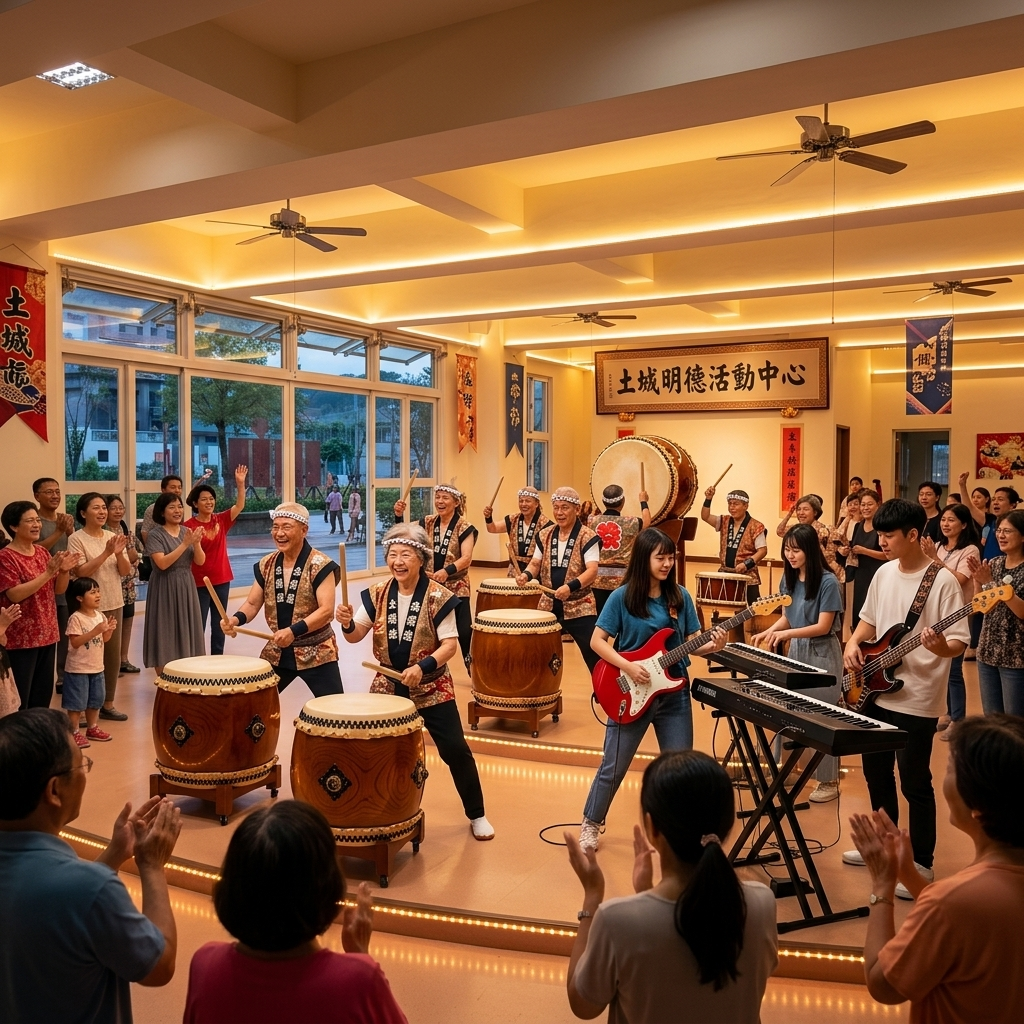
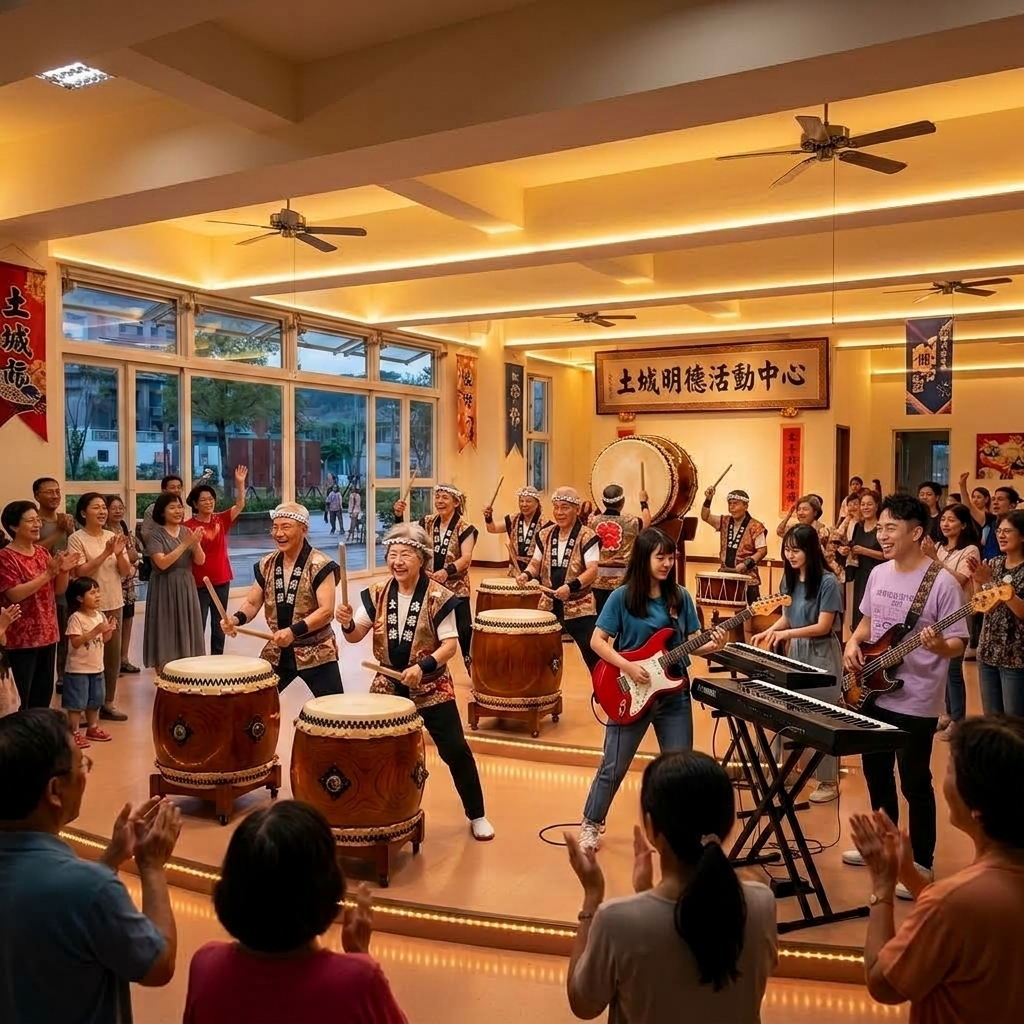
Auto backup by AI: [v25.04] Update policy 06, 07, 09 images, badge bottom-left alignment, and cache bust to v25.04

diff --git a/js/main.js b/js/main.js
@@ -158,7 +158,7 @@ const POLICIES_DATA = [
         categoryName: "專業治理與長照支持",
         title: "預防失智 App ＋ AI樂齡趣味營",
         subtitle: "自研 1 至 50 健腦遊戲每天動態預警，結合 AI 短劇與老照片修復，全方位延緩大腦退化！",
-        image: "images/policy_08_brain.png",
+        image: "images/policy_08_brain.png?v=22.03",
         budgetSource: "失智友善社區專案 ＋ 長者健康促進補助",
         budgetSub: "<span class=\"hl-keyword\">完全不會用到</span>明德里 88 萬基層款",
         budgetDesc: "",
@@ -202,7 +202,7 @@ const POLICIES_DATA = [
         categoryName: "專業治理與精準服務",
         title: "管委會法律諮詢 ＋ 鄰里和諧溝通平台",
         subtitle: "10 年管委會主委實務，顧問律師公益諮詢，理性調解漏水、噪音與規約糾紛！",
-        image: "images/policy_10_harmony.png",
+        image: "images/policy_10_harmony.png?v=22.03",
         budgetSource: "競選顧問律師群 ＋ 調解志工公益支援",
         budgetSub: "<span class=\"hl-keyword\">完全不會用到</span>明德里 88 萬基層款",
         budgetDesc: "由競選團隊顧問律師與 10 年管委會實務志工公益服務，零公帑支出，以法理情守護居住權益。",
@@ -244,7 +244,8 @@ const POLICIES_DATA = [
         id: 11,
         title: "長青傳統課程 ＋ 流行音樂共演升級",
         subtitle: "太鼓與舞蹈班100%安心延續，融入流行樂團改編節奏，祖孫同台公演讓全家搶著拍照錄影！",
-        image: "images/policy_06_upgrade.png",
+        image: "images/policy_06_upgrade.png?v=22.03",
+        badgePosition: "bottom-left",
         budgetSource: "明德里基層工作經費 ＋ 流行音樂師資協作",
         budgetSub: "每年近百萬法定基層款依法支應（零額外自費）",
         budgetDesc: "善用既有場地與基層款常態維護，結合候選人音樂圈師資人脈協同教學，發揮最大綜效。",
@@ -807,9 +808,10 @@ function renderPolicies() {
                 </div>
             `;
         } else {
+            const badgeClass = policy.badgePosition ? `vision-badge vision-badge-${policy.badgePosition}` : 'vision-badge';
             imageHtml = `
                 <img class="policy-card-image" src="${policy.image}" alt="${policy.title} - 概念示意圖" onerror="this.style.display='none'; if(this.nextElementSibling) this.nextElementSibling.style.display='none'; this.parentElement.querySelector('.policy-card-image-placeholder').style.display='flex';">
-                <span class="vision-badge">概念示意圖</span>
+                <span class="${badgeClass}">概念示意圖</span>
                 <div class="policy-card-image-placeholder" style="display: none;">
                     <div class="placeholder-icon">${policy.icon}</div>
                     <span class="placeholder-text">示意圖繪製中</span>
@@ -1045,10 +1047,11 @@ function openDrawer(policyId) {
             }
         } else {
             // 其他一般計畫渲染單張圖
+            const badgeClass = policy.badgePosition ? `vision-badge vision-badge-${policy.badgePosition}` : 'vision-badge';
             drawerImgWrapper.innerHTML = `
                 <div style="position: relative; border-radius: 16px; overflow: hidden; border: 1px solid var(--card-border);">
                     <img class="drawer-image" src="${policy.image}" alt="${policy.title} - 概念示意圖" onerror="this.closest('#drawer-image-wrapper').style.display='none';" onload="this.closest('#drawer-image-wrapper').style.display='block';">
-                    <span class="vision-badge">概念示意圖</span>
+                    <span class="${badgeClass}">概念示意圖</span>
                 </div>
             `;
         }

diff --git a/css/style.css b/css/style.css
@@ -2354,6 +2354,20 @@ footer {
     box-shadow: 0 4px 15px rgba(0, 0, 0, 0.06);
 }
 
+.vision-badge-bottom-left {
+    top: auto !important;
+    bottom: 12px !important;
+    right: auto !important;
+    left: 12px !important;
+}
+
+.vision-badge-bottom-right {
+    top: auto !important;
+    bottom: 12px !important;
+    left: auto !important;
+    right: 12px !important;
+}
+
 /* ==========================================================================
    兩行置中導覽列與標題徽章
    ========================================================================== */

diff --git a/index.html b/index.html
@@ -133,7 +133,7 @@
       ]
     }
     </script>
-    <link rel="stylesheet" href="css/style.css?v=25.03">
+    <link rel="stylesheet" href="css/style.css?v=25.04">
     <style>
     /* 調整主版面兩欄比例與間距，僅在桌機版生效以確保手機版正常響應式排版 */
     @media (min-width: 951px) {
@@ -1538,7 +1538,7 @@
         </div>
     </div>
 
-    <script src="js/main.js?v=25.03"></script>
+    <script src="js/main.js?v=25.04"></script>
     <script src="js/site-report-modal.js?v=1.00"></script>
 </body>
 </html>

diff --git a/sw.js b/sw.js
@@ -1,9 +1,9 @@
-const CACHE_NAME = 'mingde2-cache-v25.03';
+const CACHE_NAME = 'mingde2-cache-v25.04';
 const ASSETS_TO_CACHE = [
   './',
   'index.html',
-  'css/style.css?v=25.03',
-  'js/main.js?v=25.03',
+  'css/style.css?v=25.04',
+  'js/main.js?v=25.04',
   'manifest.json',
   'favicon.svg',
   'images/icon-192.png',
